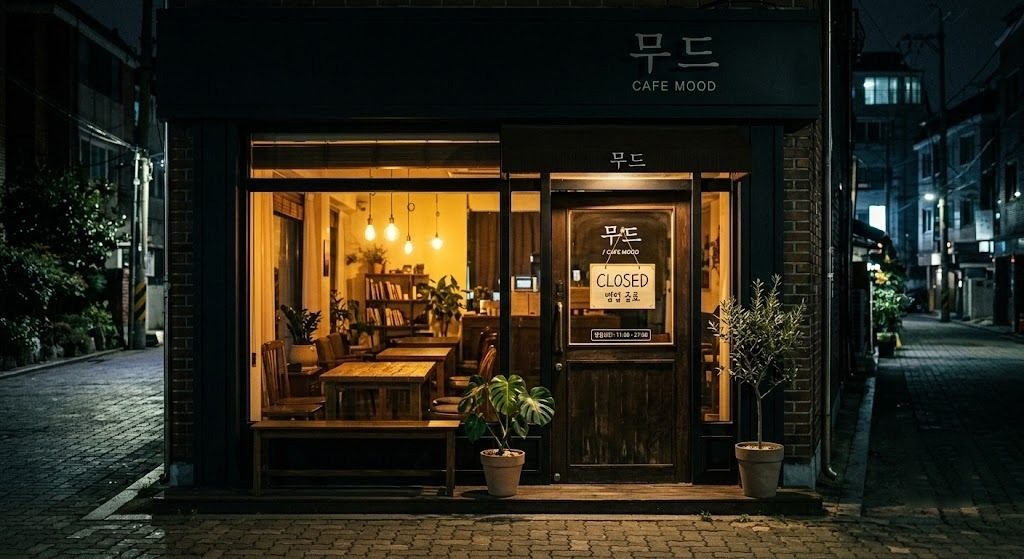
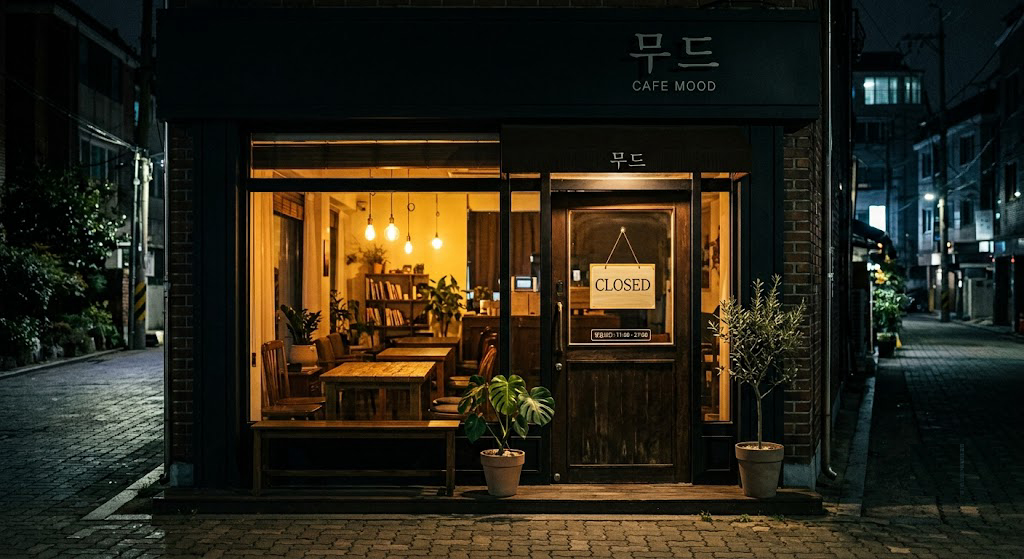
260721 이우진

diff --git a/src/assets/images.ts b/src/assets/images.ts
@@ -56,6 +56,8 @@ const registry: Record<string, ImageSourcePropType> = {
   'assets/images/logo_mark.png': require('../../assets/images/logo_mark.png'),
   'assets/images/background.png': require('../../assets/images/background.png'),
   'assets/images/ESFP_background.jpg': require('../../assets/images/ESFP_background.jpg'),
+  'assets/images/ENFP_background.png': require('../../assets/images/ENFP_background.png'),
+  'assets/images/INTJ_background.png': require('../../assets/images/INTJ_background.png'),
 };
 
 export function imageSource(path?: string | null): ImageSourcePropType | undefined {

diff --git a/src/data/episode1.ts b/src/data/episode1.ts
@@ -14,6 +14,7 @@ export const episode1: BlindDate = {
     isUnlocked: true,
     imagePath: 'assets/images/ENFP_female.png',
     facePath: 'assets/images/ENFP_female_face.png',
+    backgroundPath: 'assets/images/ENFP_background.png',
   },
   turns: [
     {

diff --git a/src/data/episode2.ts b/src/data/episode2.ts
@@ -14,6 +14,7 @@ export const episode2: BlindDate = {
     isUnlocked: true,
     imagePath: 'assets/images/INTJ_female.png',
     facePath: 'assets/images/INTJ_female_face.png',
+    backgroundPath: 'assets/images/INTJ_background.png',
   },
   turns: [
     {